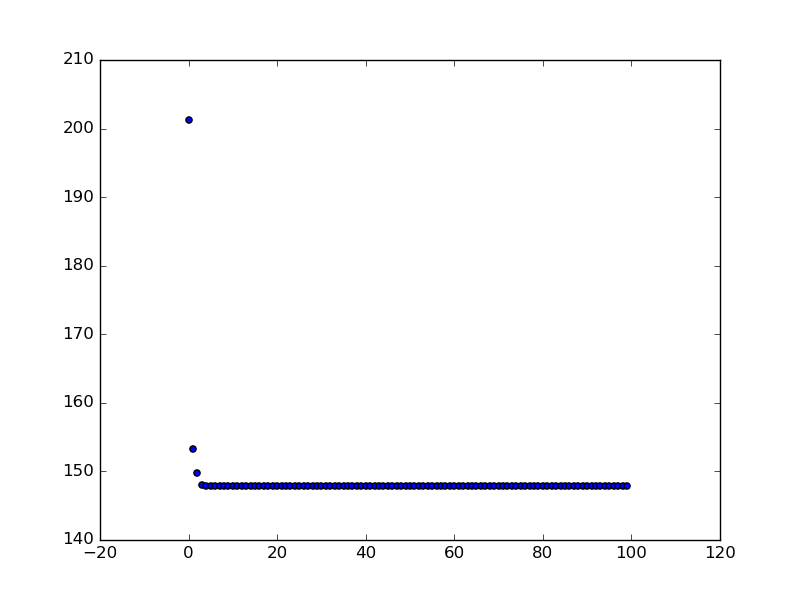
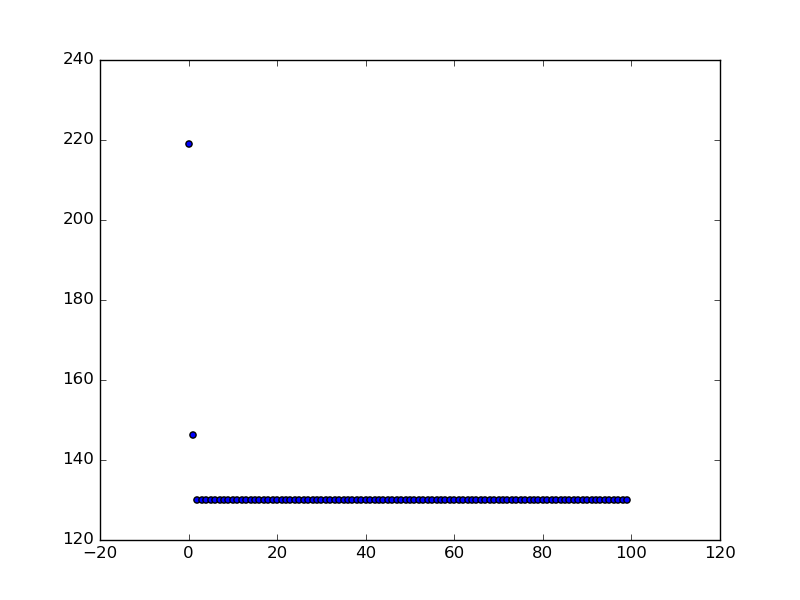
wrapping up kmeans and kmeans++

diff --git a/hw2/multikmeans.py b/hw2/multikmeans.py
@@ -23,7 +23,7 @@ def kmeans_raw(X, permutation, max_clusters = 8, max_iterations = 100, plot=Fals
     for nIter in range(0, max_iterations):
         if plot:
             for center in centroids:
-                c_ax.plot(center[0], center[1],'r-')
+                c_ax.scatter(center[0], center[1])
         distances = pairwise_distances(X, centroids, metric='euclidean')
         clusters = np.argmin(distances,axis=1)
         min_distances = np.amin(distances, axis=1)
@@ -48,8 +48,7 @@ def mykmeans_multi(X, max_clusters = 8, max_iterations=100):
     for outIter in range(0, max_iterations):
         print "Iterating the outer loop for {0}".format(outIter)
         # Dont use a seed value as we have to generate multiple permutations
-        randState = 10312003
-        rnd = np.random.RandomState(randState)
+        rnd = np.random.RandomState()
         permutation = rnd.permutation(len(X))[:max_clusters]
 
         centroids, distortion = kmeans_raw(X, permutation, max_clusters=max_clusters, max_iterations=max_iterations, plot=False)

diff --git a/hw2/kmeans_plus_plus.py b/hw2/kmeans_plus_plus.py
@@ -15,13 +15,14 @@ def mykmeans_plus_plus(X, max_clusters = 8, max_iterations=10000):
     centroids = np.empty(shape=(max_clusters, X.shape[1]))
     centroids[0] = X[rnd.permutation(len(X))[0]]
 
-    d2weighting = np.power(pairwise_distances(X, centroids[np.newaxis,0], metric='euclidean'), 2)
-    d2weighting = d2weighting/np.sum(d2weighting)
-
     for itr in range(1, max_clusters):
+
+        d2weighting = pairwise_distances(X, centroids[:itr], metric='euclidean')
+        d2weighting = np.power(np.amin(d2weighting, axis=1),2)
+        d2weighting = d2weighting/np.sum(d2weighting)
+
         index = np.argmax(d2weighting)
         centroids[itr] = X[index + itr - 1]
-        np.delete(d2weighting, index)
     
     print centroids
 
